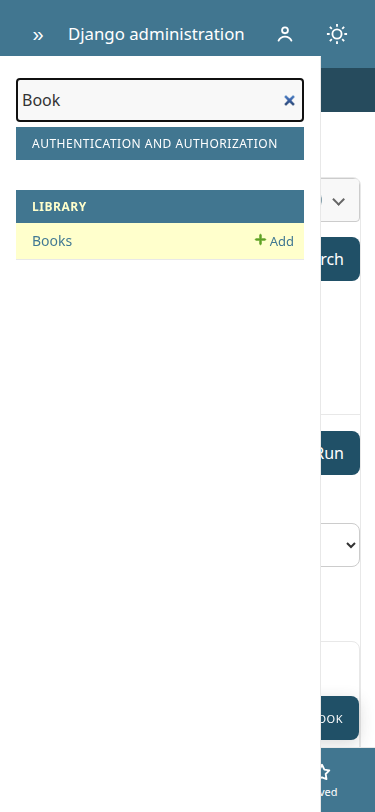
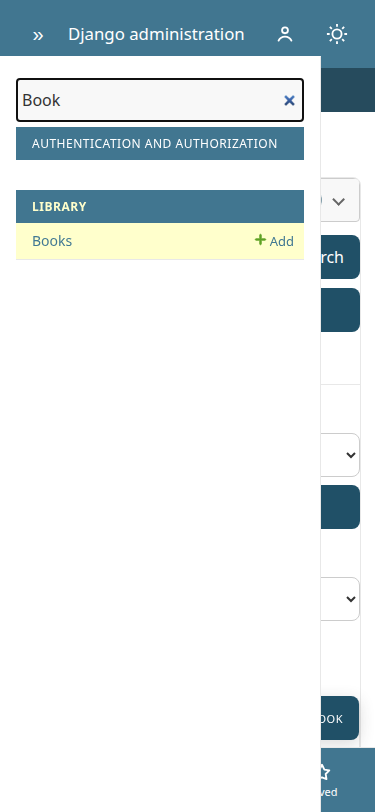
Align changelist controls to one edge in 0.2.3.
The action menu and Sort by are both full-width selects with 16px of inner padding. Search, Save, Run, and the result card share that same left and right edge. The card no longer repeats a second Select label.

Changed region(s): [[0.8507, 0.5234, 0.968, 0.6773], [0.8507, 0.3079, 0.968, 0.431], [0.9387, 0.7081, 0.968, 0.7389]]

diff --git a/src/admin_mobile/static/admin_mobile/css/admin_mobile_features.css b/src/admin_mobile/static/admin_mobile/css/admin_mobile_features.css
@@ -469,12 +469,14 @@ html[data-theme="auto"].admin-mobile {
         border: 1px solid var(--border-color);
     }
 
-    html.admin-mobile-cards .admin-mobile-sort {
+    html.admin-mobile-cards .admin-mobile-sort,
+    html.admin-mobile-cards .admin-mobile-select-all {
         display: flex;
         align-items: center;
         gap: var(--am-space);
         width: 100%;
         margin: 0 0 var(--am-pad);
+        padding: 0;
     }
 
     html.admin-mobile-cards .admin-mobile-sort span {
@@ -578,28 +580,109 @@ html[data-theme="auto"].admin-mobile {
         align-items: center;
         gap: var(--am-space);
         width: 100%;
+        margin: 0;
     }
 
-    html.admin-mobile #searchbar {
+    html.admin-mobile #changelist-search > div {
+        position: relative;
+    }
+
+    html.admin-mobile #changelist-search label {
+        position: absolute;
+        z-index: 1;
+        left: 12px;
+        top: 0;
+        display: inline-flex;
+        align-items: center;
+        justify-content: center;
+        width: 24px;
+        height: var(--am-tap);
+        margin: 0;
+        pointer-events: none;
+    }
+
+    html[dir="rtl"].admin-mobile #changelist-search label {
+        left: auto;
+        right: 12px;
+    }
+
+    html[dir="rtl"].admin-mobile #searchbar,
+    html[dir="rtl"].admin-mobile #toolbar form #searchbar {
+        padding: 0 40px 0 12px;
+    }
+
+    html.admin-mobile #changelist-search img {
+        margin: 0;
+    }
+
+    html.admin-mobile #searchbar,
+    html.admin-mobile #toolbar form #searchbar {
         flex: 1 1 auto;
         width: auto;
         min-width: 0;
         height: var(--am-tap);
+        margin: 0;
+        padding: 0 12px 0 40px;
     }
 
-    html.admin-mobile #toolbar form,
+    html.admin-mobile .admin-mobile-save-model {
+        display: inline-flex;
+        align-items: center;
+        justify-content: center;
+        flex: 1 1 100%;
+        width: 100%;
+    }
+
+    html.admin-mobile #toolbar form {
+        display: flex;
+        flex-wrap: nowrap;
+        align-items: center;
+        gap: var(--am-space);
+        margin: 0;
+        padding: 0;
+        background: transparent;
+    }
+
     html.admin-mobile #changelist .actions {
         display: flex;
-        flex-wrap: wrap;
-        align-items: center;
+        flex-direction: column;
+        align-items: stretch;
         gap: var(--am-space);
         margin: 0 0 var(--am-pad);
         padding: 0;
         background: transparent;
     }
 
-    html.admin-mobile #changelist .actions select {
-        margin-left: 0;
+    html.admin-mobile #changelist .actions label {
+        display: flex;
+        flex: 0 0 auto;
+        flex-direction: column;
+        align-items: stretch;
+        gap: var(--am-space);
+        width: 100%;
+        margin: 0;
+    }
+
+    html.admin-mobile #changelist .actions .button,
+    html.admin-mobile #changelist .actions button {
+        width: 100%;
+    }
+
+    html.admin-mobile #changelist .actions .action-counter {
+        margin: 0;
+    }
+
+    html.admin-mobile #changelist .actions select,
+    html.admin-mobile-cards .admin-mobile-sort select {
+        flex: 0 0 auto;
+        width: 100%;
+        max-width: 100%;
+        height: var(--am-tap);
+        min-height: var(--am-tap);
+        min-width: 0;
+        margin: 0;
+        padding: 0 var(--am-pad);
+        box-sizing: border-box;
     }
 
     html.admin-mobile #changelist .actions span.all,
@@ -637,13 +720,13 @@ html[data-theme="auto"].admin-mobile {
         display: inline-flex;
         align-items: center;
         flex: 0 0 auto;
-        min-height: var(--am-tap);
+        min-height: 36px;
         margin: 0;
         padding: 0 14px;
-        border: 1px solid var(--border-color);
+        border: 0;
         border-radius: 999px;
-        background: var(--darkened-bg);
-        color: var(--body-fg);
+        background: var(--button-bg);
+        color: var(--button-fg);
         text-decoration: none;
         white-space: nowrap;
     }
@@ -659,8 +742,19 @@ html[data-theme="auto"].admin-mobile {
     }
 
     html.admin-mobile-cards #result_list tbody tr {
-        padding: 8px var(--am-pad);
+        padding: 12px var(--am-pad);
         border-radius: var(--am-radius);
+    }
+
+    html.admin-mobile-cards #result_list .action-checkbox::before {
+        content: none;
+    }
+
+    html.admin-mobile-cards #result_list .action-checkbox {
+        justify-content: flex-start;
+        min-height: 0;
+        padding: 0 0 var(--am-space);
+        border: 0;
     }
 
     html.admin-mobile-cards #result_list .admin-mobile-card-title {

diff --git a/src/admin_mobile/__init__.py b/src/admin_mobile/__init__.py
@@ -1,3 +1,3 @@
 """Phone ergonomics for the native Django admin."""
 
-__version__ = "0.2.2"
+__version__ = "0.2.3"

diff --git a/CHANGELOG.md b/CHANGELOG.md
@@ -1,5 +1,9 @@
 # Changelog
 
+## 0.2.3
+
+- Changelist controls share one left and right edge. The action menu and Sort by are the same full-width select with 16px of inner padding. The card no longer repeats a second “Select” label.
+
 ## 0.2.2
 
 - Tab labels no longer pick up Django’s link underline. The current tab uses a stronger pill and a bottom bar.

diff --git a/README.md b/README.md
@@ -167,9 +167,9 @@ uv run tox
 
 ## Publishing
 
-0.1.0 is already on PyPI. This tree is 0.2.2 and is not published from here.
+0.1.0 is already on PyPI. This tree is 0.2.3 and is not published from here.
 
-1. Tag `0.2.2` when you want a release.
+1. Tag `0.2.3` when you want a release.
 2. Build: `uv build`.
 3. Publish: `uv publish` with a PyPI token.
 
